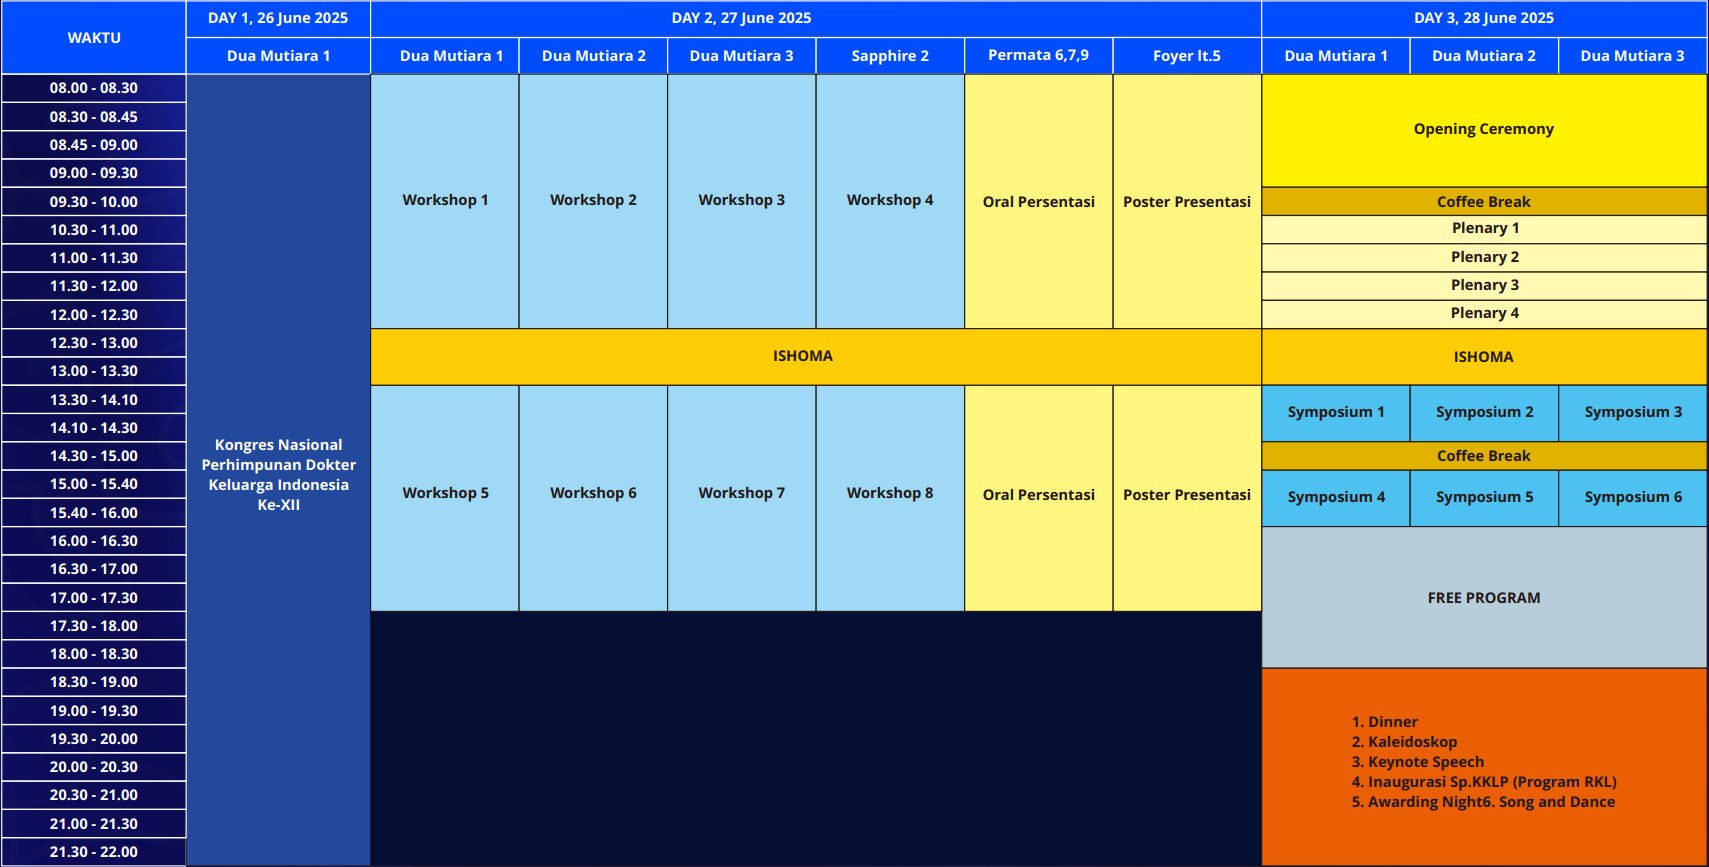
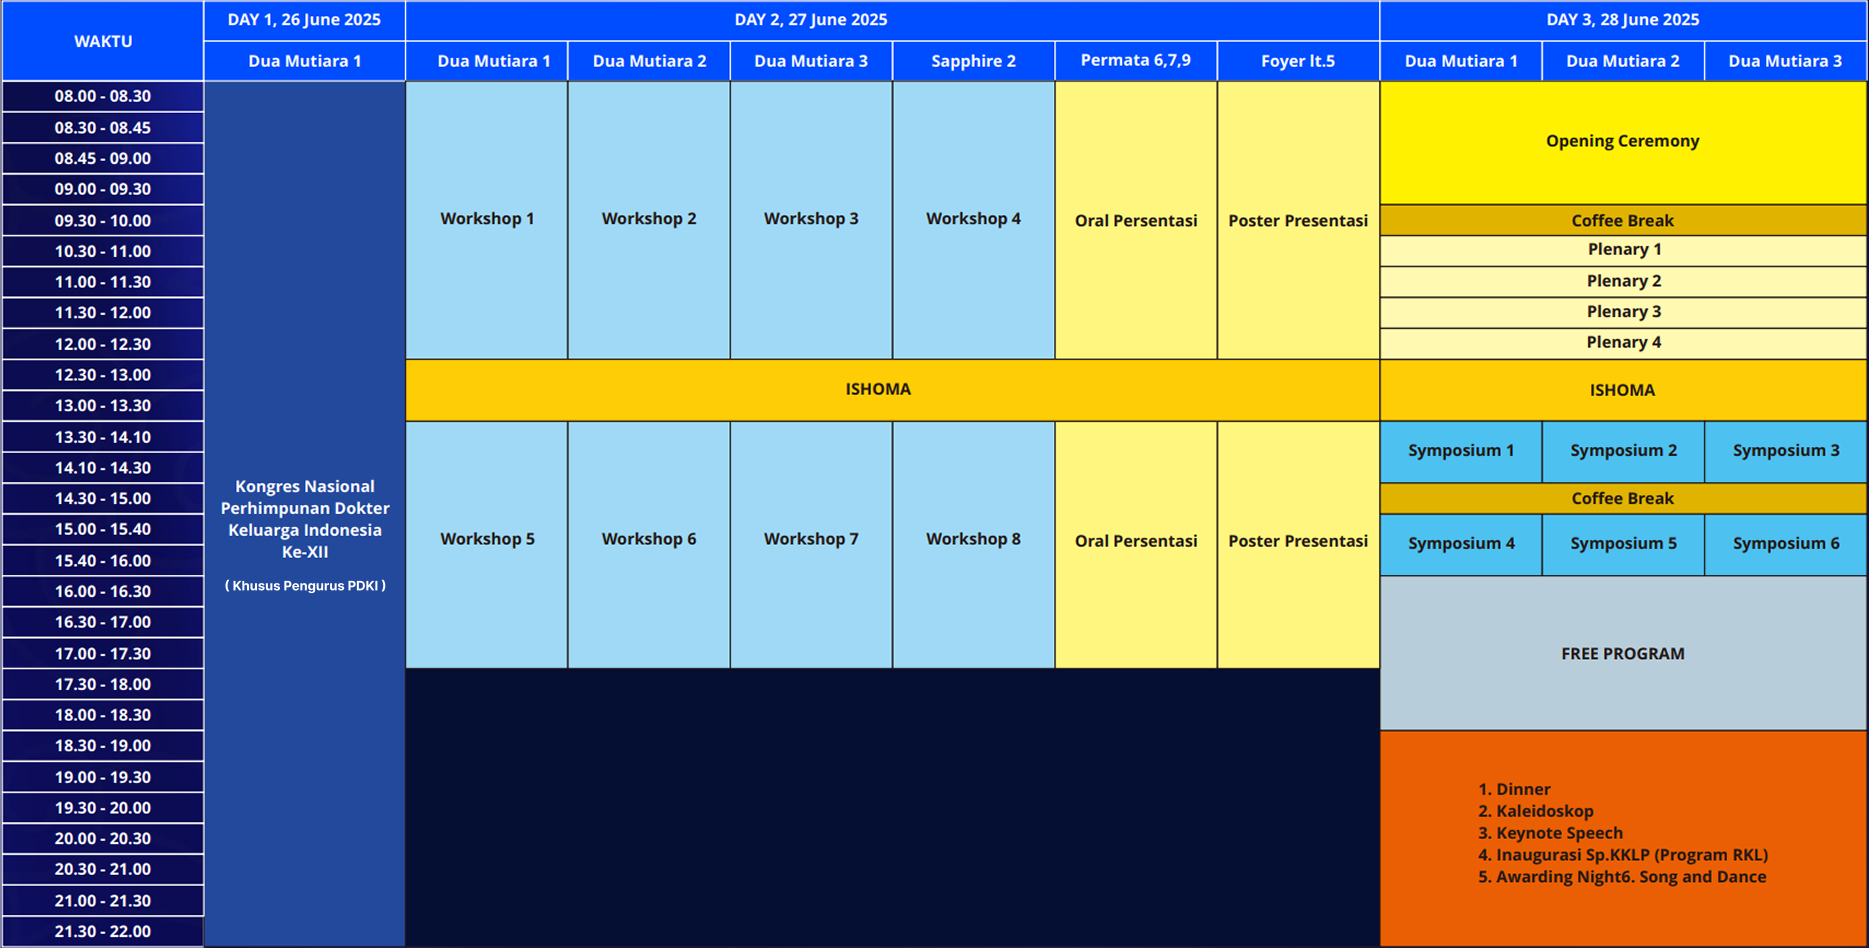
`fix:` change program at a glance image

diff --git a/app/(client)/scientific-schedule/page.tsx b/app/(client)/scientific-schedule/page.tsx
@@ -12,7 +12,7 @@ export default function ShortVideoCompetition() {
 
   const days = {
     1: {
-      date: "Kamis, 26 Juni 2025",
+      date: "Kamis, 26 Juni 2025 (specifically for PDKI administrators)",
       image: Days1
     },
     2: {
